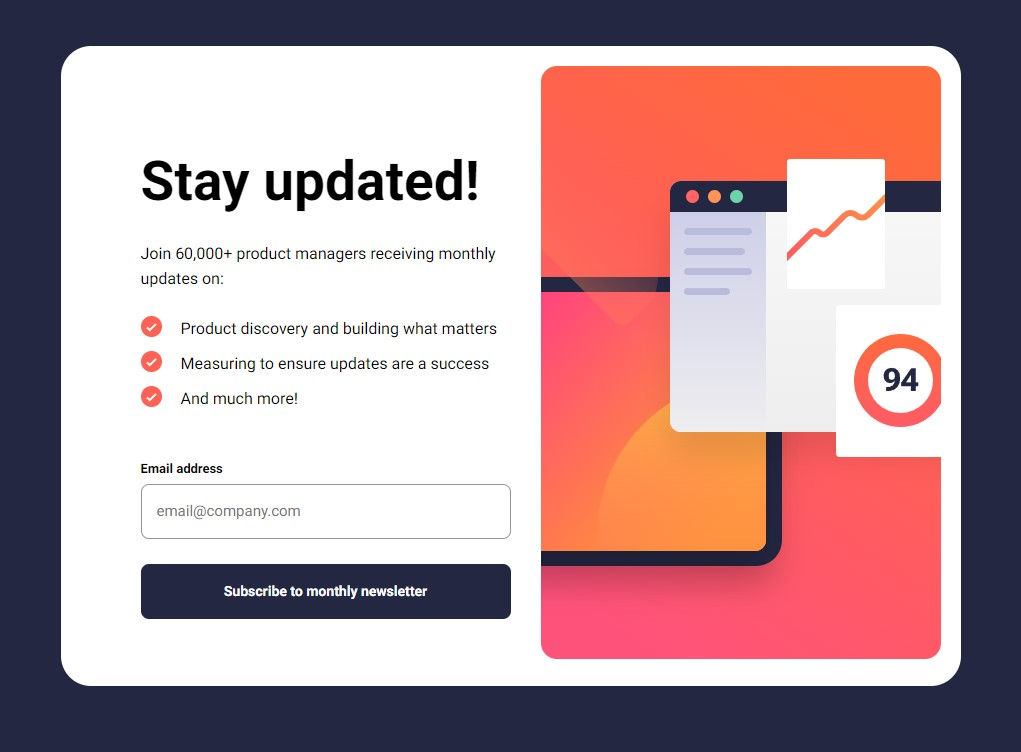
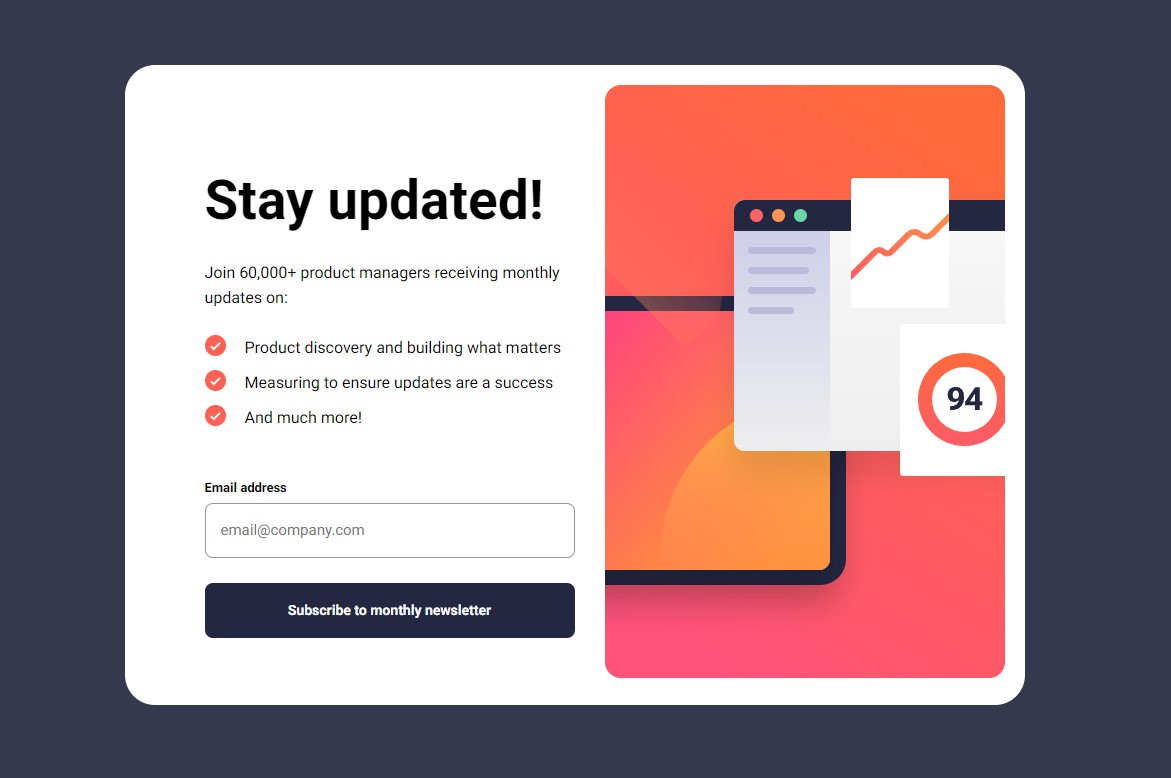
ver1.2

Changed region(s): [[0.0607, 0.0612, 0.9412, 0.9176]]

diff --git a/index.html b/index.html
@@ -4,7 +4,6 @@
 <head>
   <meta charset="UTF-8">
   <meta name="viewport" content="width=device-width, initial-scale=1.0">
-  <!-- displays site properly based on user's device -->
 
   <link rel="icon" type="image/png" sizes="32x32" href="./assets/images/favicon-32x32.png">
 
@@ -46,22 +45,11 @@
     <div>
       <img src="./assets/images/icon-success.svg" alt="Icon Success">
       <h3>Thanks for subscribing!</h3>
-      <p class="confirmationMessage">A confirmation email has been sent to ash@loremcompany.com. 
+      <p class="confirmationMessage">A confirmation email has been sent to <b id="confirmationEmail"></b>. 
         Please open it and click the button inside to confirm your subscription.</p>
     </div>
     <button>Dismiss message</button>
   </div>
-
-  <!-- Success message start 
-
-  Thanks for subscribing!
-
-  A confirmation email has been sent to ash@loremcompany.com. 
-  Please open it and click the button inside to confirm your subscription.
-
-  Dismiss message
-
- Success message end -->
 
   <div class="attribution">
     Challenge by <a href="https://www.frontendmentor.io?ref=challenge" target="_blank">Frontend Mentor</a>.

diff --git a/script.js b/script.js
@@ -4,6 +4,7 @@ const inputEmail = document.querySelector("input#email");
 const divFormSubmitted = document.querySelector("div.formSubmitted");
 const main = document.querySelector("main");
 const dismissBtn = document.querySelector("div.formSubmitted button");
+const confirmationEmail = document.querySelector("b#confirmationEmail");
 
 form.addEventListener("submit", e => {
     e.preventDefault();
@@ -13,6 +14,7 @@ form.addEventListener("submit", e => {
         validationMessage.style.display = "none";
         inputEmail.className = "form-email";
 
+        confirmationEmail.innerText = inputEmail.value;
         divFormSubmitted.style.display = "flex";
         main.style.display = "none";
     }

diff --git a/style.sass b/style.sass
@@ -14,7 +14,7 @@ body
     justify-content: center 
     margin: 0
     padding: 0
-    background-color: $darkSlateGrey
+    background-color: $charcoalGrey
 main 
     min-height: 820px
 main, div.formSubmitted

diff --git a/style.css b/style.css
@@ -10,7 +10,7 @@ body {
   justify-content: center;
   margin: 0;
   padding: 0;
-  background-color: hsl(234, 29%, 20%);
+  background-color: hsl(235, 18%, 26%);
 }
 
 main {
